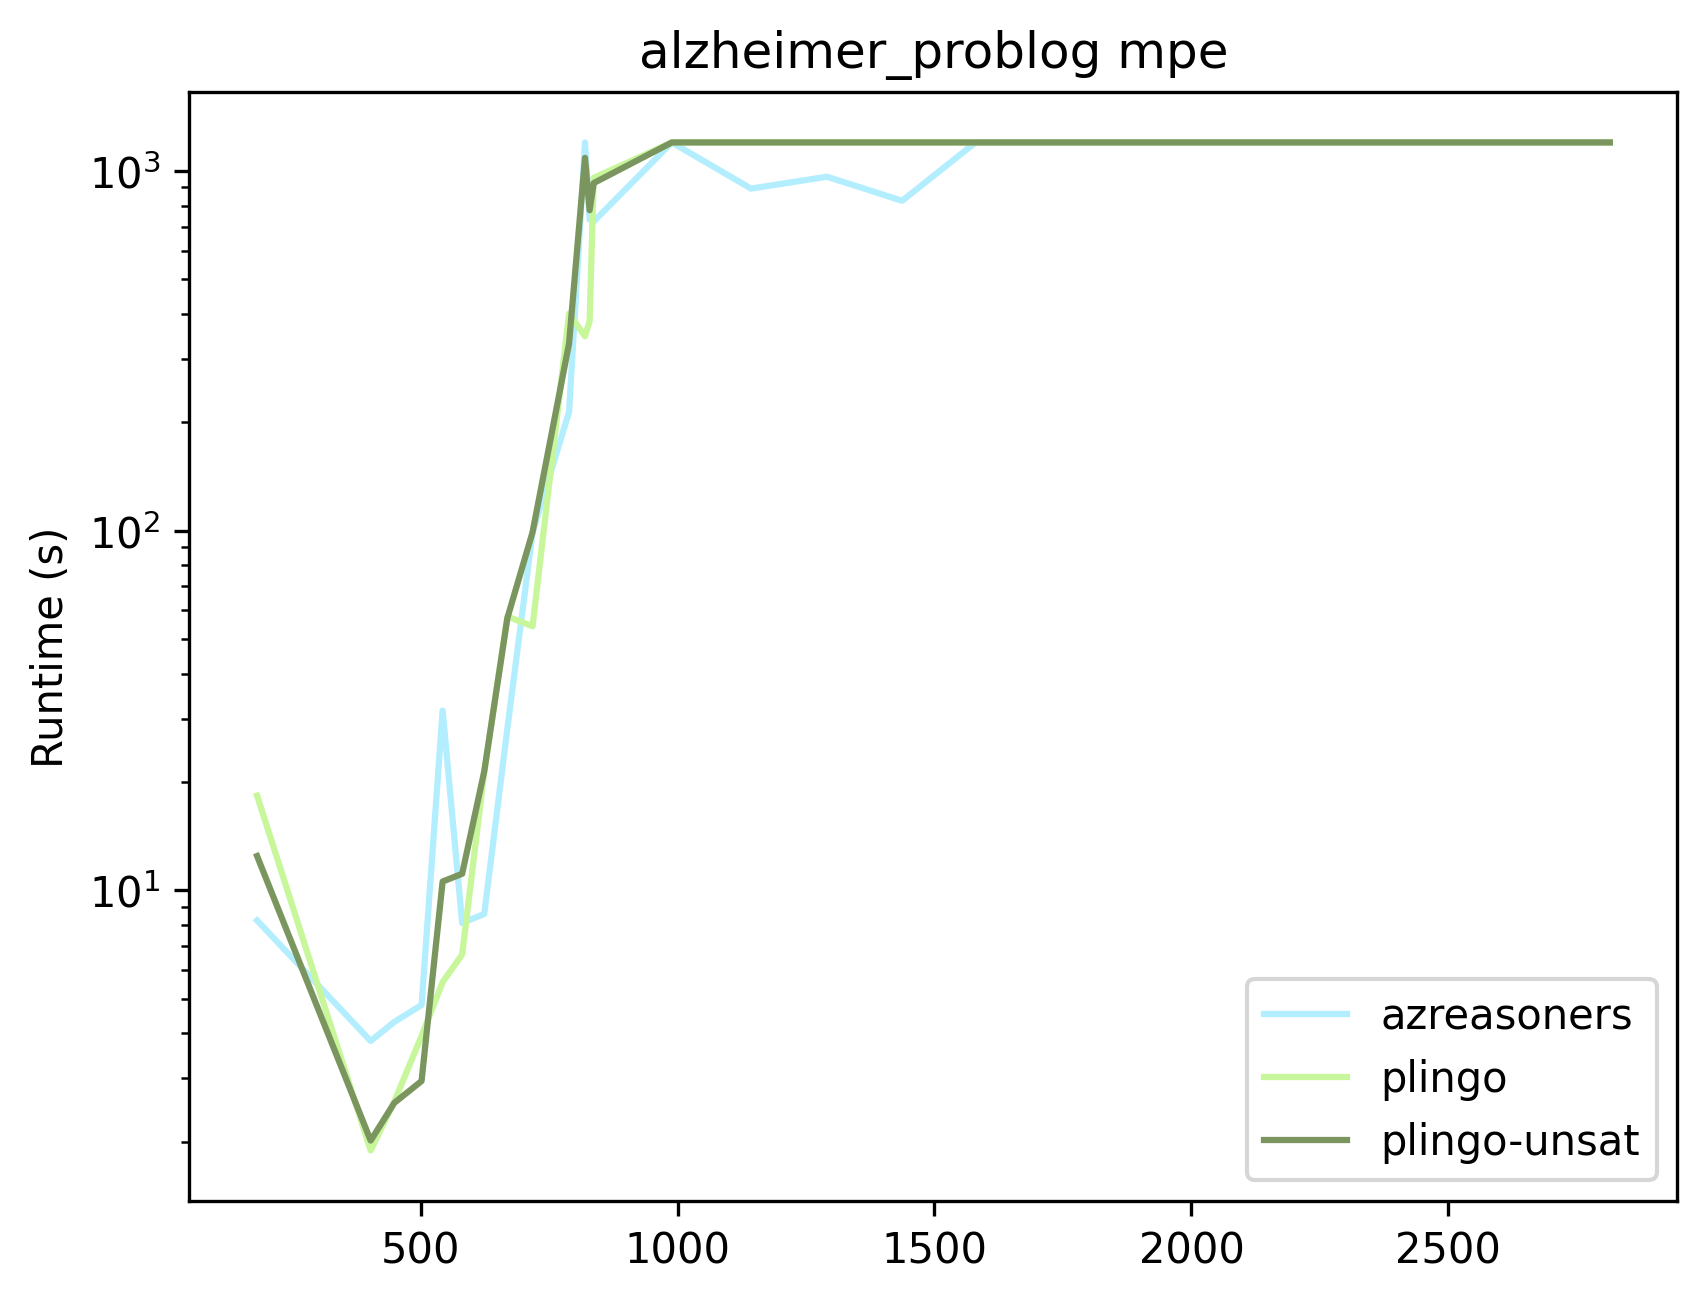
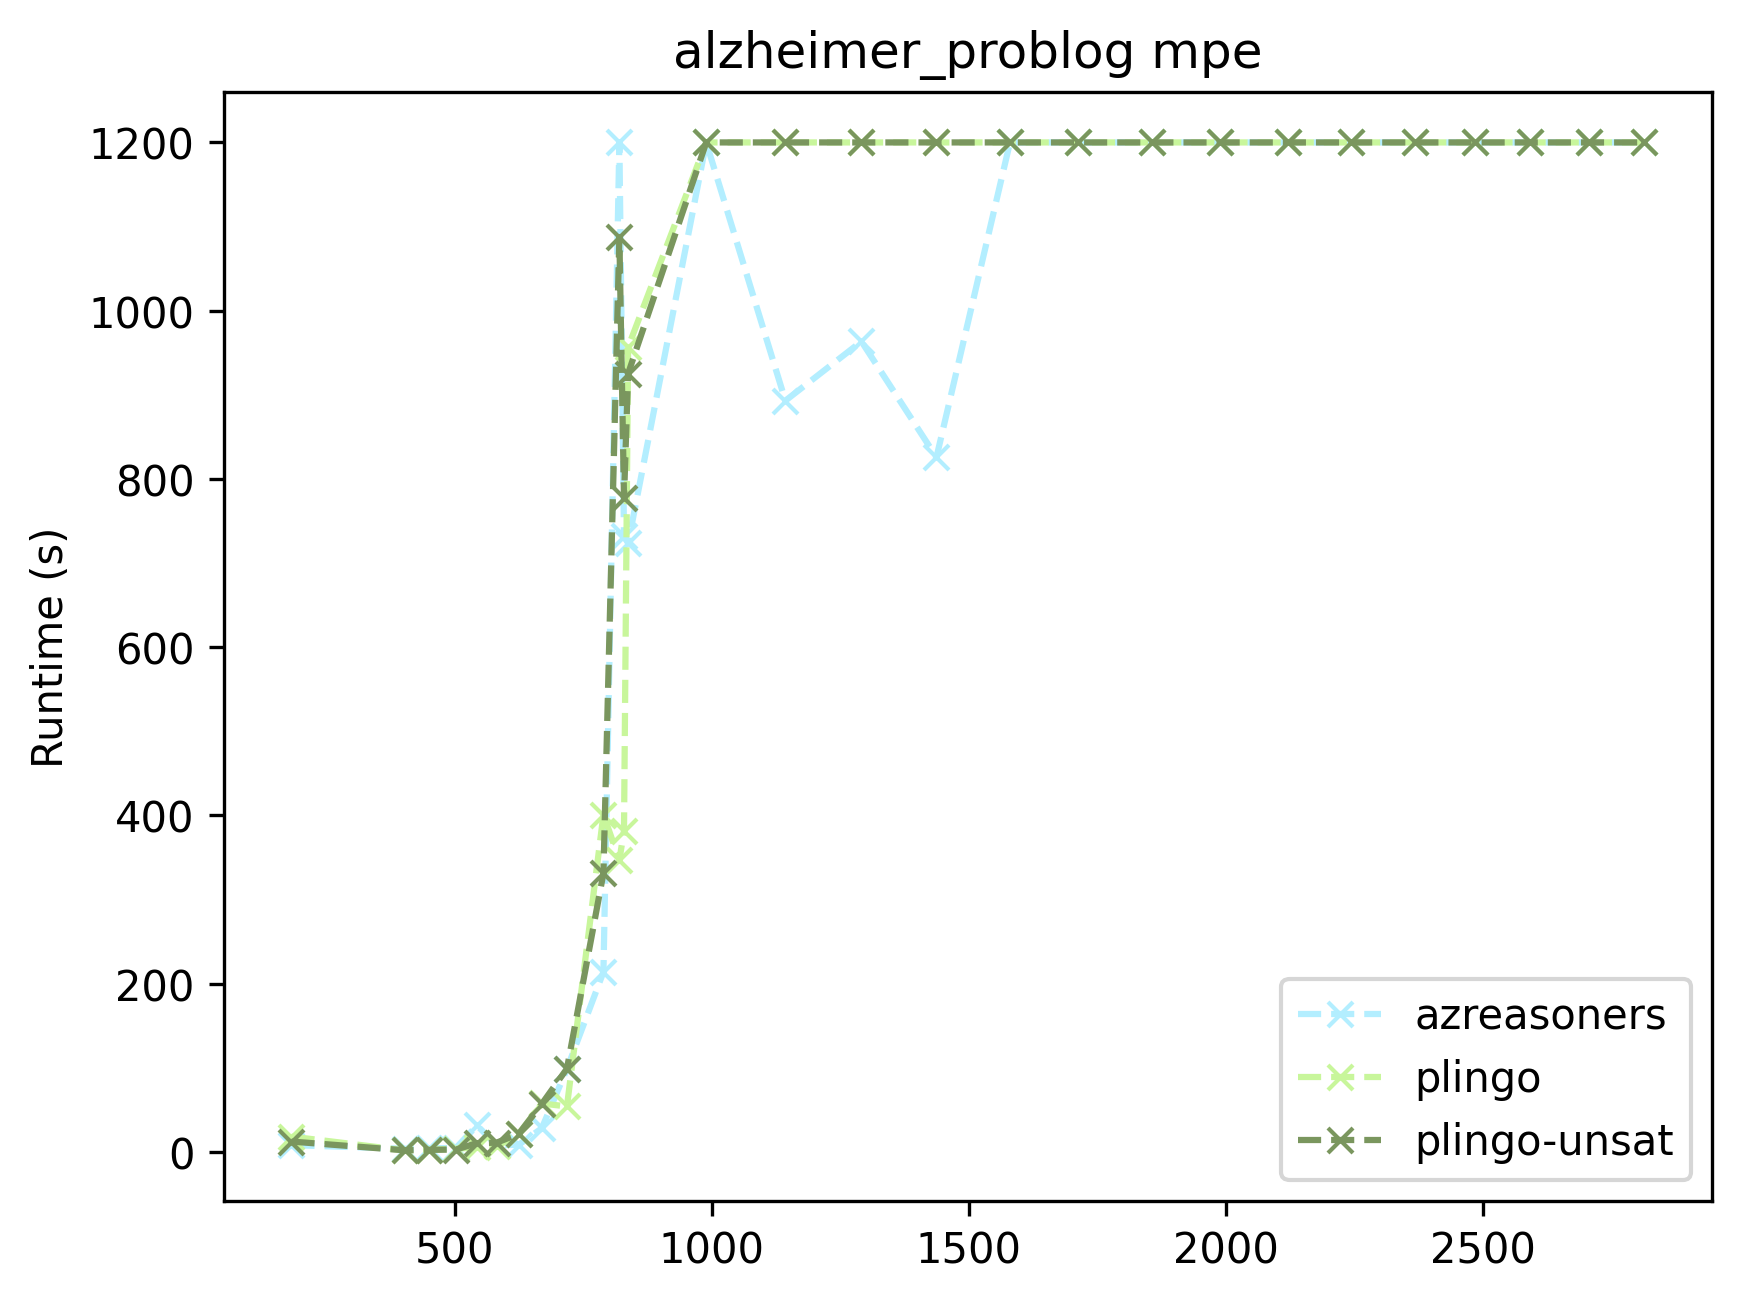
more plots

diff --git a/benchmarks/scripts/plot.py b/benchmarks/scripts/plot.py
@@ -108,6 +108,9 @@ class ParseInstanceNames:
     def alzheimer_problog(self, i):
         return i.split('n')[0]
 
+    def smokers(self, i):
+        return i.split('.')[0].split('-')[1]
+
 
 name_parser = ParseInstanceNames()
 
@@ -183,7 +186,7 @@ def clean_df(df):
         # Keep only size 20 domain
         df = df[[x.startswith('20')
                  for x in df['instance-name']]].reset_index()
-    elif dom == 'alzheimer_problog':
+    elif dom == 'alzheimer_problog' or dom == 'smokers':
         # Sort by ascending order (instance names are integers)
         df.iloc[:, 0] = pd.to_numeric(df.iloc[:, 0], downcast="integer")
         df.sort_values(['instance-name'], inplace=True, ignore_index=True)
@@ -320,7 +323,7 @@ if __name__ == "__main__":
             df = read_ods(path, 1)
             df = clean_df(df)
             dfs[(a, n)] = df
-            last_df = df
+            instances = df['instance-name']
         except Exception as e:
             print(e)
             print("Error reading file {}".format(path))
@@ -332,15 +335,17 @@ if __name__ == "__main__":
             return 'plog-dco'
         elif approach == 'plingo' and n[1] == 'bm_unsat':
             return 'plingo-unsat'
+        elif n[1] == 'bm_problog':
+            return 'plingo-problog'
         return approach
 
     # -------- Reorder dfs
-    instances = last_df['instance-name']
     time_df = pd.concat([instances] + [dfs[df]['time'] for df in dfs],
                         axis=1,
                         keys=['instance-name'] +
                         [parse_name(df) for df in dfs])
-    if 'query' in last_df.columns:
+
+    if 'query' in args.prefix:
         query_df = pd.concat([instances] + [dfs[df]['query'] for df in dfs],
                              axis=1,
                              keys=['instance-name'] + [df for df in dfs])
@@ -348,6 +353,7 @@ if __name__ == "__main__":
     approaches_colors = {
         "plingo": "#C8F69B",
         "plingo-unsat": "#7a965e",
+        "plingo-problog": "#7a965e",
         "problog": "#FFB1AF",
         "plog": "#D6D4FF",
         "plog-dco": "#83819e",
@@ -463,18 +469,24 @@ if __name__ == "__main__":
         colors = [approaches_colors[n] for n in time_df.columns[1:]]
 
         print(time_df)
-        time_df.plot(x='instance-name', y=time_df.columns[1:], color=colors)
+        time_df.plot(x='instance-name',
+                     y=time_df.columns[1:],
+                     color=colors,
+                     ls='dashed',
+                     marker='x')
 
         plt.title(f"{dom} {opt}", fontsize=12, fontweight=0)
         plt.xlabel(args.x)
         plt.xticks(rotation='horizontal')
         plt.ylabel(args.y)
 
-        if dom == 'squirrel':
+        # if dom == 'squirrel':
+        #     plt.yscale('log')
+        #     plt.ylim(bottom=0.1, top=1400)
+        #     plt.axhline(1200, color='gray', ls='dashdot')
+
+        if 'log' in prefix:
             plt.yscale('log')
-            plt.ylim(bottom=0.1, top=1400)
-            plt.axhline(1200, color='gray', ls='dashdot')
-        plt.yscale('log')
         plt.savefig(file_name_img, dpi=300, bbox_inches='tight')
         print("Saved {}".format(file_name_img))
         plt.clf()
